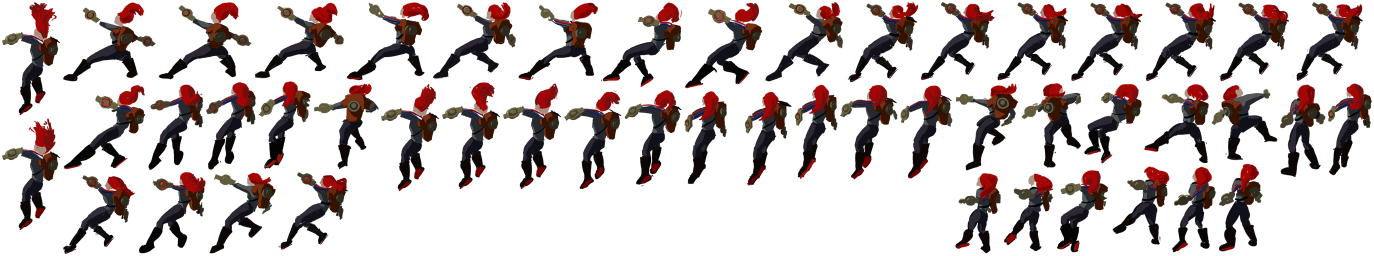
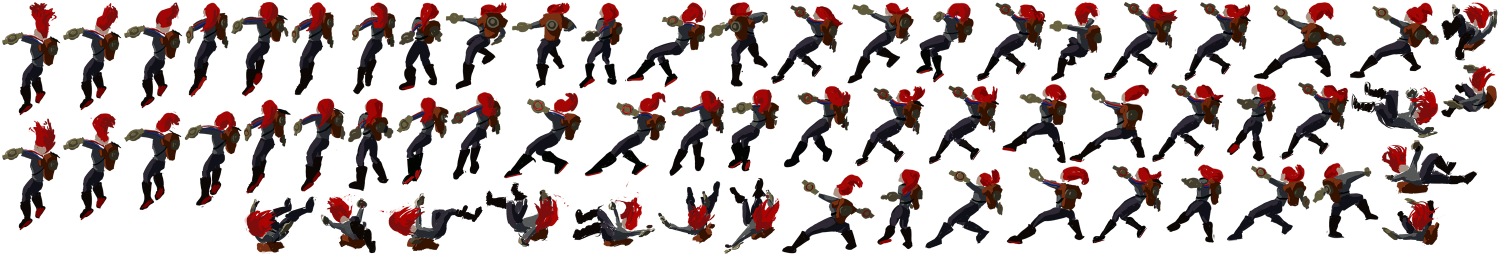
spiral first pass

diff --git a/Src/Shaft.js b/Src/Shaft.js
@@ -120,6 +120,10 @@ Shaft.create = function() {
         20, false, false);
     player.animations.add('reverse_swing', ['ReverseShock/ReverseShock0000', 'ReverseShock/ReverseShock0002', 'ReverseShock/ReverseShock0004', 'ReverseShock/ReverseShock0006', 'ReverseShock/ReverseShock0008'],
     	20, false, false);
+    player.animations.add('fall_to_spiral', ['DownToSpiral/DownToSpiral0000', 'DownToSpiral/DownToSpiral0001', 'DownToSpiral/DownToSpiral0002', 'DownToSpiral/DownToSpiral0003'],
+        20, false, false);
+    player.animations.add('spiral', ['Spiraling/Spiraling0000', 'Spiraling/Spiraling0001', 'Spiraling/Spiraling0002', 'Spiraling/Spiraling0003', 'Spiraling/Spiraling0004', 'Spiraling/Spiraling0005', 'Spiraling/Spiraling0006', 'Spiraling/Spiraling0007', 'Spiraling/Spiraling0008', 'Spiraling/Spiraling0009'],
+        14, true, false);
 
     player.animations.play('idle');
 
@@ -255,6 +259,10 @@ Shaft.update = function() {
         return;
     } 
 
+    if(player.animations.currentAnim.name === 'spiral') {
+        return;
+    }
+
     if(player.animations.currentAnim.name === 'initiate' && player.animations.currentAnim.isFinished) {
         player.animations.play('initiate_to_swing');
     }
@@ -277,6 +285,10 @@ Shaft.update = function() {
 
     if(player.animations.currentAnim.name === 'jump_to_swing' && player.animations.currentAnim.isFinished) {
         player.animations.play('swing');
+    }
+
+    if(player.animations.currentAnim.name === 'fall_to_spiral' && player.animations.currentAnim.isFinished) {
+        player.animations.play('spiral');
     }
 
     if(player.animations.currentAnim.name === 'reverse_swing' && player.animations.currentAnim.isFinished) {
@@ -355,6 +367,10 @@ Shaft.update = function() {
     this.batteryRed.scale.x = this.energy / 100;
     this.batteryGreen.scale.x = this.energy / 100;
 
+    if(player.body.velocity.y > 2000 && player.animations.currentAnim.name !== 'fall_to_spiral' && player.animations.currentAnim.name !== 'spiral') {
+        player.animations.play('fall_to_spiral')
+    }
+
     if(player.body.y > 19925 && player.animations.currentAnim.name === 'fall') {
         player.animations.play('idle');
         player.body.velocity.x = 0;
@@ -365,7 +381,7 @@ Shaft.render = function() {
 
     lightningCanvas.clear();
     
-    if(this.hooked && !this.connectionBroke && player.animations.currentAnim.name !== 'initiate') {
+    if(this.hooked && !this.connectionBroke && player.animations.currentAnim.name !== 'initiate' && player.animations.currentAnim.name !== 'spiral') {
         var xOffset = player.scale.x > 0 ? -35 : 35;
         var yOffset = -25;
         Util.crazyLightning(player.x + xOffset, player.y - game.camera.y + yOffset, this.clickSpot.x, this.clickSpot.y - game.camera.y, "rgba(0,0,255,0.8)", "rgba(255,255,255,1)");
